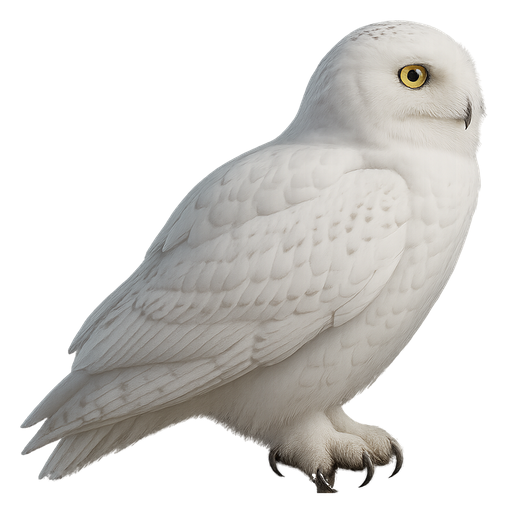
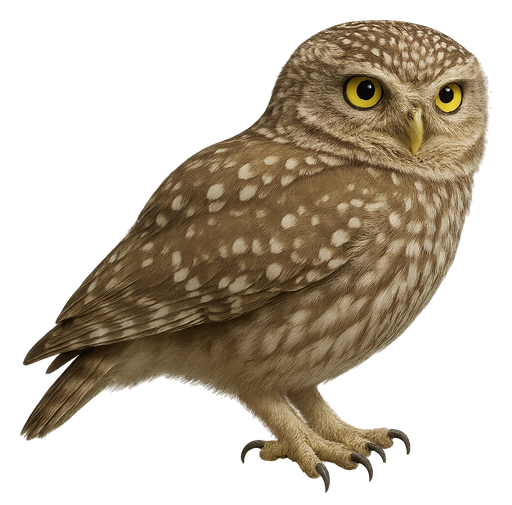
Mascot: the owl is now a Little Owl (Athene noctua)
Replaces the snowy owl with the little owl of Athena: grey-brown, white
speckles, yellow eyes. Same asset contract under public/kyro-owl; the
flight clip was keyed from a green screen. Flying layers are scaled 1.6x
against the perched still and the box is the perched silhouette in both
axes (airborne wings overflow by design), which keeps the perched bird
full-size on every surface while landings stay centroid-exact. End card
refit.

diff --git a/apps/web/src/components/penny/kyroDoveManifest.js b/apps/web/src/components/penny/kyroDoveManifest.js
@@ -1,7 +1,8 @@
 // ─────────────────────────────────────────────────────────────────────────────
 // KYRO the owl — asset contract for the sprite assets in /public/kyro-owl/.
 // (File name kept from the dove era: it is an internal identifier, like
-// KyroDove.jsx — the bird is now a snowy owl, owner decision 2026-09-10.)
+// KyroDove.jsx — the bird is now a LITTLE OWL, Athene noctua, Athena's owl of
+// knowledge; owner decision 2026-09-10, replacing the snowy owl the same day.)
 //
 // FALLBACK below is a verbatim copy of `public/kyro-owl/manifest.json` (the
 // numbers the build script wrote), so the FIRST paint never waits on a fetch:
@@ -20,37 +21,37 @@ export const ASSET_BASE = '/kyro-owl/'
 export const FALLBACK = {
   fly: {
     file: 'fly.webp',
-    frames: 42,
-    cols: 7,
+    frames: 36,
+    cols: 6,
     rows: 6,
-    cellW: 384,
-    cellH: 139,
-    sheetW: 2688,
-    sheetH: 834,
+    cellW: 249,
+    cellH: 256,
+    sheetW: 1494,
+    sheetH: 1536,
     fps: 24,
-    anchor: { x: 0.3342, y: 0.4001 },
+    anchor: { x: 0.5674, y: 0.4613 },
     facing: 'right',
     loop: 'forward',
   },
   perched: {
     file: 'perched.webp',
-    w: 507,
-    h: 512,
-    anchor: { x: 0.6549, y: 0.962 },
+    w: 512,
+    h: 505,
+    anchor: { x: 0.6311, y: 0.9744 },
     facing: 'right',
-    variants: { 256: { file: 'perched@256.webp', w: 254, h: 256 } },
+    variants: { 256: { file: 'perched@256.webp', w: 256, h: 252 } },
   },
   glide: {
     file: 'glide.webp',
-    w: 384,
-    h: 139,
-    anchor: { x: 0.3342, y: 0.4001 },
+    w: 249,
+    h: 256,
+    anchor: { x: 0.5674, y: 0.4613 },
     facing: 'right',
   },
 }
 
 // Alpha-silhouette CENTROIDS measured by the asset build
-// (demo-video/owl-candidates/sora/measurements.json), as fractions of the glide
+// (demo-video/owl-candidates/little/sora/measurements.json), as fractions of the glide
 // cell / perched image. THESE are the common point P every layer is placed by —
 // not the manifest anchors. The manifest's fly/glide anchor is the torso (the
 // always-opaque pixels) and its perched anchor is the feet; neither is what the
@@ -61,18 +62,22 @@ export const FALLBACK = {
 // 2·(centroid − P). Anchoring on the centroids makes both cuts and both
 // facings invariant by construction. The fly sheet shares the glide's crop and
 // anchor, so the torso still holds still through the wingbeat.
-export const GLIDE_CENTROID = { x: 0.4515, y: 0.4945 }
-export const PERCHED_CENTROID = { x: 0.5733, y: 0.5274 }
+export const GLIDE_CENTROID = { x: 0.5057, y: 0.4105 }
+export const PERCHED_CENTROID = { x: 0.5664, y: 0.483 }
 
-// The flying/gliding layers render this many times the perched layer's HEIGHT
-// (a fly cell is 384×139, so the flying owl is FLY_SCALE × 2.76 perched-heights
-// wide). 1.0 is the size at which the owl reads as the SAME bird across the cut:
-// the head/eye and torso mass of the wings-spread frame match the perched still
-// (checked by overlaying glide on perched at 0.9 / 1.2 / 1.5 / 2.07 — at 2.07,
-// the value that equates the horizontal flight torso's THICKNESS to the standing
-// bird's HEIGHT, the flying owl is plainly a much bigger bird). The dove used
-// 1.22 because its perched still was drawn at a larger scale than its cells.
-export const FLY_SCALE = 1.0
+// The flying/gliding layers render this many times the perched layer's HEIGHT.
+// The little owl's fly cell is ~1:1 (249×256): unlike the snowy owl's 2.76:1
+// cell, the wings here sweep from 0.41u ABOVE the body centroid to 0.59u BELOW
+// it, so the torso is only ~0.23 of the cell and "same bird" is a HEAD match,
+// not a cell-height match. Overlaying glide on perched, centroid-aligned, at
+// 1.0/1.4/1.7/2.0/2.4/2.8 (demo-video/owl-candidates/little/sora/
+// fly-scale-overlay.png): the head/eye masses coincide at ~2.0 (the stricter
+// eye-diameter measurement says 1.9); at 1.4 the flying bird is plainly
+// smaller, at 2.4 plainly bigger. 1.6 is the deliberate compromise: the flying
+// head is ~80 % of the perched head (reads as the same bird a little further
+// off) while the airborne layers stay ~1.6u tall — see the box rule below for
+// why that number, not 2.0, is the one that costs nothing in the perched state.
+export const FLY_SCALE = 1.6
 
 // PLACEMENT anchor for the perched layer relative to the manifest's feet anchor:
 // the perched still is placed by its alpha centroid (= P), the feet stay the
@@ -90,17 +95,28 @@ export const PERCHED_PLACEMENT_OFFSET = placementOffset()
  * box height H, so the same numbers work for a `size` prop or a CSS var.
  *
  * All three layers are placed so their anchor lands on ONE common point P, so
- * switching state never moves the body. The BOX is:
- *   • vertically, the union of all three layers (so a parent's `bottom: H + 8`
- *     bubble clears the bird in every state, wings up or down);
- *   • horizontally, the PERCHED still only (symmetric about P.x). The owl's fly cell is 2.76:1 — its
- *     wingspan is ~6 body-heights — so a box that contained the wings would be
- *     three times wider than the bird you see 99% of the time, and every layout
- *     that sizes/places the mascot by its box (corner inset, beside-the-card
- *     placement, the clickable button, badges) would drift far off the bird.
- *     The fly/glide layers therefore OVERFLOW the box sideways while airborne
- *     (`fly.left` is negative); nothing that hosts a flight clips, and inactive
+ * switching state never moves the body. The BOX is the PERCHED still, both
+ * ways (horizontally symmetric about P.x):
+ *   • horizontally that was already the rule for the snowy owl (wingspan ~6
+ *     body-heights): a box that contained the wings would be several times
+ *     wider than the bird you see 99% of the time, and every layout that
+ *     sizes/places the mascot by its box (corner inset, beside-the-card
+ *     placement, the clickable button, badges) would drift far off the bird;
+ *   • vertically it USED to be the union of all three layers. The snowy owl's
+ *     2.76:1 cell made that free (the wings barely left the body's height).
+ *     The little owl's ~1:1 cell does not: its wings sweep 0.41u above and
+ *     0.59u below P, so a union box at FLY_SCALE 1.6 would be 1.6u tall and
+ *     the perched bird — the one every `size` prop is written for — would
+ *     shrink to 62% of its box on every surface (parked, chat header, the
+ *     172px Studio hero). So the airborne layers now overflow vertically too,
+ *     by (0.41·FLY_SCALE − 0.48)u ≈ 0.17u above and (0.59·FLY_SCALE − 0.52)u ≈
+ *     0.43u below the box (≈ 11px / 28px at Penny's 64px box) — only while
+ *     flying/gliding. The bubble sits `bottom: H + 8` above the box, so a
+ *     wing-up tip can brush its underside mid-flight (cosmetic; the bubble is
+ *     for the perched bird). Nothing that hosts a flight clips, and inactive
  *     layers are collapsed (KyroDove) so they never add scrollable overflow.
+ *     Callers that want the old envelope can read fly.top/fly.h from the
+ *     geometry — it is still derived, just no longer folded into the box.
  */
 export function deriveGeometry(manifest = FALLBACK) {
   const fly = manifest.fly || FALLBACK.fly
@@ -124,17 +140,15 @@ export function deriveGeometry(manifest = FALLBACK) {
       anchor: { x: perched.anchor.x + offset.x, y: perched.anchor.y + offset.y },
     },
   ]
-  let above = 0
-  let below = 0
-  for (const l of layers) {
-    above = Math.max(above, l.anchor.y * l.h)
-    below = Math.max(below, (1 - l.anchor.y) * l.h)
-  }
+  // Vertical: the perched still only (see the box rule above); the airborne
+  // layers overflow above/below while flying.
+  const perchedLayer = layers[2]
+  const above = perchedLayer.anchor.y * perchedLayer.h
+  const below = (1 - perchedLayer.anchor.y) * perchedLayer.h
   // Horizontal: the perched still, made SYMMETRIC about P.x so the flipped
   // (facing-left) still stays inside the box too — costs ~0.07u of slack on one
   // side, and means the box, the button hit-area and any badge inset track the
   // bird in both facings.
-  const perchedLayer = layers[2]
   const half = Math.max(perchedLayer.anchor.x, 1 - perchedLayer.anchor.x) * perchedAspect
   const left = half
   const right = half

diff --git a/apps/web/public/kyro-owl/preview.html b/apps/web/public/kyro-owl/preview.html
@@ -4,10 +4,10 @@
   body{margin:0;font:13px/1.4 system-ui,sans-serif;color:#1f3d72;background:#fff}
   .row{display:flex;gap:40px;align-items:flex-end;padding:28px 32px;flex-wrap:wrap}
   .light{background:#f6f7fb} .navy{background:#1f3d72;color:#fff}
-  .fly{width:384px;height:139px;background:url(fly.webp) 0 0/2688px 834px no-repeat;
-       animation:fx 0.29167s steps(7) infinite, fy 1.75000s steps(6) infinite}
-  @keyframes fx{to{background-position-x:-2688px}}
-  @keyframes fy{to{background-position-y:-834px}}
+  .fly{width:249px;height:256px;background:url(fly.webp) 0 0/1494px 1536px no-repeat;
+       animation:fx 0.25000s steps(6) infinite, fy 1.50000s steps(6) infinite}
+  @keyframes fx{to{background-position-x:-1494px}}
+  @keyframes fy{to{background-position-y:-1536px}}
   .mirror{transform:scaleX(-1)}
   .box{position:relative;display:inline-block}
   .anchor{position:absolute;width:9px;height:9px;margin:-5px 0 0 -5px;border-radius:50%;background:#ff5a5f;box-shadow:0 0 0 2px #fff;pointer-events:none}
@@ -15,16 +15,16 @@
   img{display:block}
 </style>
 <div class="row light">
-  <div><span class="box"><div class="fly"></div><i class="anchor" style="left:33.42%;top:40.01%"></i></span><span class="label">fly.webp 42 cells @ 24 fps (facing right)</span></div>
+  <div><span class="box"><div class="fly"></div><i class="anchor" style="left:56.74%;top:46.13%"></i></span><span class="label">fly.webp 36 cells @ 24 fps (facing right)</span></div>
   <div><span class="box"><div class="fly mirror"></div></span><span class="label">scaleX(-1)</span></div>
-  <div><span class="box"><img src="glide.webp" width="384" height="139"><i class="anchor" style="left:33.42%;top:40.01%"></i></span><span class="label">glide.webp</span></div>
-  <div><span class="box"><img src="perched@256.webp" width="254" height="256"><i class="anchor" style="left:65.49%;top:96.20%"></i></span><span class="label">perched@256.webp</span></div>
-  <div><span class="box"><img src="perched.webp" width="253" height="256"></span><span class="label">perched.webp shown at 50%</span></div>
+  <div><span class="box"><img src="glide.webp" width="249" height="256"><i class="anchor" style="left:56.74%;top:46.13%"></i></span><span class="label">glide.webp</span></div>
+  <div><span class="box"><img src="perched@256.webp" width="256" height="252"><i class="anchor" style="left:63.11%;top:97.44%"></i></span><span class="label">perched@256.webp</span></div>
+  <div><span class="box"><img src="perched.webp" width="256" height="252"></span><span class="label">perched.webp shown at 50%</span></div>
 </div>
 <div class="row navy">
   <div><span class="box"><div class="fly"></div></span><span class="label">fly.webp</span></div>
   <div><span class="box"><div class="fly mirror"></div></span><span class="label">scaleX(-1)</span></div>
-  <div><span class="box"><img src="glide.webp" width="384" height="139"></span><span class="label">glide.webp</span></div>
-  <div><span class="box"><img src="perched@256.webp" width="254" height="256"></span><span class="label">perched@256.webp</span></div>
+  <div><span class="box"><img src="glide.webp" width="249" height="256"></span><span class="label">glide.webp</span></div>
+  <div><span class="box"><img src="perched@256.webp" width="256" height="252"></span><span class="label">perched@256.webp</span></div>
 </div>
 <div class="row light" style="padding-top:8px"><span>Red dots = manifest anchors (fly/glide: body centroid; perched: feet).</span></div>

diff --git a/demo-video/assets/endcard.html b/demo-video/assets/endcard.html
@@ -13,11 +13,11 @@
   .mark img.lockup { height:280px; filter: drop-shadow(0 24px 60px rgba(0,0,0,.5)); animation: pop 1.2s .2s cubic-bezier(.2,.8,.2,1) both }
   /* KYRO the owl settles onto the petal tip of the mark. The lockup is 280px tall (370x320 source): the
      SOLID tip of the centre petal (alpha > 200, ignoring the sparkle dots above it) is source row 54,
-     cols 179-189 → (161.0px, 47.2px) from the mark's top-left, i.e. ~1px left of centre. The owl still
-     (507x512) has its feet at (0.6549, 0.962) of the image, so at height 130px (w 128.7px) the claws land
-     on the tip with: margin-left = -1 - 0.6549*128.7 ≈ -85px, top = 48.5 - 0.962*130 ≈ -77px (claws
+     cols 179-189 → (161.0px, 47.2px) from the mark's top-left, i.e. ~1px left of centre. The little-owl
+     still (512x505) has its feet at (0.6311, 0.9744) of the image, so at height 130px (w 131.8px) the claws
+     land on the tip with: margin-left = -1 - 0.6311*131.8 ≈ -84px, top = 48.5 - 0.9744*130 ≈ -78px (claws
      overlap the tip by ~1px). */
-  .mark img.mascot { position:absolute; left:50%; top:-77px; height:130px; margin-left:-85px;
+  .mark img.mascot { position:absolute; left:50%; top:-78px; height:130px; margin-left:-84px;
                      filter: drop-shadow(0 10px 22px rgba(0,0,0,.45)); animation: land 1.1s 1.0s cubic-bezier(.2,.8,.2,1) both }
   @keyframes land { from { opacity:0; transform: translate(-140px,-90px) rotate(-8deg) scale(1.08) } 70% { opacity:1; transform: translate(0,6px) } to { opacity:1; transform: translate(0,0) } }
   @keyframes pop { from { opacity:0; transform: scale(.7) } }

diff --git a/apps/web/public/kyro-owl/README.md b/apps/web/public/kyro-owl/README.md
@@ -1,101 +1,114 @@
 # KYRO the owl — in-app mascot assets
 
-Photoreal **snowy owl** sprites for the app mascot (owner decision 2026-09-10: move away from the dove; this
-directory replaces `/kyro-dove/` with the SAME manifest schema and file names). Everything here has alpha,
-faces **right**, and is our own generated output. Mirror with `transform: scaleX(-1)`.
+Photoreal **little owl** (*Athene noctua* — Athena's owl, the classic emblem of knowledge: small, round-headed,
+grey-brown with white speckling, pale facial disc, yellow eyes, short tail) sprites for the app mascot. Owner
+decision 2026-09-10: "instead of the snowy owl, i'd rather use the little owl that is associated with knowledge."
+Same manifest schema and file names as the snowy owl (and the dove before it). Everything here has alpha, faces
+**right**, and is our own generated output. Mirror with `transform: scaleX(-1)`.
 
 | File | What | Size |
 |---|---|---|
-| `fly.webp` | sprite sheet, one wingbeat, 42 cells of 384x139 in a 7x6 grid (2688x834), lossless | 1,141 KB |
-| `glide.webp` | one wings-spread frame (source frame 61, bottom of the downstroke), same crop/scale as a fly cell, 384x139 | 33 KB |
-| `perched.webp` | perched still, branch removed, alpha-trimmed + 4 % padding, 507x512 | 160 KB |
-| `perched@256.webp` | same at 254x256 | 41 KB |
-| `manifest.json` | frames/grid/fps/anchors for the app (same schema as kyro-dove) | |
+| `fly.webp` | sprite sheet, one wingbeat, 36 cells of 249x256 in a 6x6 grid (1494x1536), lossless | 1,012 KB |
+| `glide.webp` | one wings-spread frame (source frame 209, wings spread and slightly raised), same crop/scale as a fly cell, 249x256 | 25 KB |
+| `perched.webp` | perched still, alpha-trimmed + 4 % padding, 512x505 | 199 KB |
+| `perched@256.webp` | same at 256x252 | 51 KB |
+| `manifest.json` | frames/grid/fps/anchors for the app (same schema as before) | |
 | `preview.html` / `preview.png` | self-check: plays the sheet with CSS `steps()` on the light app ground and on navy | |
+| `owl-sky-proof.mp4` | temp, untracked: the sheet looping over the sky plates (1536x1024, 30 fps, 4 s) | |
 
 ## Playing `fly.webp`
 
-42 cells, 24 fps = 1.75 s per wingbeat. Cell `k` is at column `k % 7`, row `k / 7`. Play 0..41 forward and
-repeat. Unlike the dove this is a NATURAL cycle (no ping-pong): bottom of the downstroke -> upstroke (wings
-level, thin but visible, cells ~18-24) -> downstroke -> bottom. The seam (cell 41 = frame 143 -> cell 0 = frame 61)
-is a 2-source-frame step like every other cell (silhouette diff 0.073 vs mean step 0.080).
+36 cells, 24 fps = 1.5 s per wingbeat. Cell `k` is at column `k % 6`, row `k / 6`. Play 0..35 forward and
+repeat — a NATURAL cycle (no ping-pong): 9 frames before the wing-up peak -> wings up -> downstroke -> wings
+down (bottom of the downstroke ~cell 22) -> upstroke -> back. The seam (cell 35 = source 214 -> cell 0 =
+source 106) is 1.5x an average cell step (silhouette diff 0.146 vs mean step 0.096).
 
 ```css
-.fly { width:384px; height:139px; background:url(fly.webp) 0 0/2688px 834px;
-       animation: fx .29167s steps(7) infinite, fy 1.75s steps(6) infinite; }
-@keyframes fx { to { background-position-x:-2688px } }
-@keyframes fy { to { background-position-y:-834px } }
+.fly { width:249px; height:256px; background:url(fly.webp) 0 0/1494px 1536px;
+       animation: fx .25s steps(6) infinite, fy 1.5s steps(6) infinite; }
+@keyframes fx { to { background-position-x:-1494px } }
+@keyframes fy { to { background-position-y:-1536px } }
 ```
 
 Anchors (fraction of the cell, from the alpha): `fly`/`glide` = centroid of the body (pixels opaque in every
-frame of the cycle = body+head+tail, not wings) = (0.3342, 0.4001); `perched` = feet (x = centroid of the
-black talon pixels, y = lowest claw pixel) = (0.6549, 0.962).
+frame of the cycle = torso+head) = (0.5674, 0.4613); `perched` = feet (x = centroid of the black talon
+pixels, y = lowest claw pixel) = (0.6311, 0.9744).
 
 ## Numbers for `kyroDoveManifest.js` (measured by the build, see `measurements.json` next to the build script)
 
-The owl's side profile is much wider than the dove's (cell aspect 2.76 vs 1.25) and the body sits low-left in
-the cell, so BOTH app constants need re-deriving — do not reuse the dove values:
-
 | | value |
 |---|---|
-| glide alpha centroid, fraction of cell | (0.4515, 0.4945) |
-| perched alpha centroid, fraction of image | (0.5733, 0.5274) |
-| body height in a fly cell (always-opaque pixels) | 0.445 of cell height (62 px) |
-| body height in the perched image | 0.924 of image height |
-| `FLY_SCALE` if the flying body should match the perched body height | **2.07** (dove: 1.22) |
-| `PERCHED_PLACEMENT_OFFSET` at FLY_SCALE 1.22 | (-0.4806, -0.5497) |
-| `PERCHED_PLACEMENT_OFFSET` at FLY_SCALE 2.07 | (-0.760, -0.6303) |
+| glide alpha centroid, fraction of cell | (0.5057, 0.4105) |
+| perched alpha centroid, fraction of image | (0.5664, 0.4830) |
+| body (torso) height in a fly cell (always-opaque pixels) | 0.231 of cell height |
+| body height in the perched image | 0.935 of image height |
+| `FLY_SCALE` chosen | **1.6** (head-match overlay says ~2.0; see below) |
 
-Offset formula (same one the dove comment describes): place the perched still so its alpha centroid lands on
-the glide centroid: `A.x = pc.x - (gc.x - fly.anchor.x) * FLY_SCALE * glideAspect / perchedAspect`,
-`A.y = pc.y - (gc.y - fly.anchor.y) * FLY_SCALE`, offset = A - perched.anchor. Note that at FLY_SCALE 2.07 the
-fly layer is 2.07 x 2.76 = 5.7 perched-heights WIDE (a real owl's wingspan is ~3.5x its body length), which
-makes the mascot box very wide; 1.22 keeps the flying owl's body ~60 % of the perched size (reads as
-"further away"). Engineer's call — both offsets are given.
+The fly cell is ~1:1 (the snowy owl's was 2.76:1): the wings sweep from 0.41 of the cell above the body
+centroid to 0.59 below it, so the torso is only 0.23 of the cell and the torso-thickness formula
+(`FLY_SCALE_suggested` 4.08 in measurements.json) is meaningless here. "Same bird" is a HEAD match:
+`demo-video/owl-candidates/little/sora/fly-scale-overlay.png` overlays glide on perched, centroid-aligned, at
+1.0/1.4/1.7/2.0/2.4/2.8 — the head/eye masses coincide at ~2.0 (eye-diameter ratio 1.9). 1.6 is the deliberate
+compromise (flying head ~80 % of the perched head, reads as the same bird a little further off) because the app
+box is now the PERCHED still both ways and the airborne layers overflow it: at 1.6 the wings overflow ~0.17u
+above / ~0.43u below the box only while flying (≈11/28 px at Penny's 64 px box). With the old "vertical
+union" box rule the perched mascot would have shrunk to 62 % of its box on every surface. Placement offset is
+derived in the JS from the centroids (perched centroid - feet anchor = (-0.0647, -0.4914)).
 
 ## Sources and licence
 
-* Flight: `demo-video/owl-candidates/sora/sprite/frames/` — Sora (sora-2-pro) 12 s clip `keyable-owl.mp4`
-  (job in `jobs.json`), keyed by `key_owl.py` (silhouette key, LO=8 HI=90, 2 px luma ring) into 360 RGBA
-  PNGs. `sprite/audit.json` = edge-contact + loop audit; `sprite-luma/` = the plain `key.sh` luma key kept for
-  comparison (it turns the barring semi-transparent — do not use).
-* Perched: `demo-video/owl-candidates/still/perched-owl-1.png` — gpt-image-1 (high, 1536x1024, transparent).
-  `perched-owl-2.png` is the alternate (branch runs diagonally behind the toes; unused).
+* Flight: `demo-video/owl-candidates/little/sora/sprite/frames/` — Sora (sora-2-pro, 1280x720, 12 s) clip
+  `keyable-owl.mp4` (job in `jobs.json`; $3.60), CHROMA-keyed by `key_green.py` (greenness ramp 14..56,
+  2 px ring un-premultiplied against the measured screen colour + despill) into 360 RGBA PNGs. `audit.json`
+  = 4 px edge-contact + loop audit; `phase.json` = wing phase per frame.
+* Perched: `demo-video/owl-candidates/little/still/perched-owl-2.png` — gpt-image-1 (high, 1536x1024,
+  transparent; two generated for ~$0.50, #2 chosen for its truer grey-brown plumage; #1 is the warmer
+  alternate). No branch or ground was drawn, so nothing had to be removed.
 * Both are our own generated output (OpenAI Sora / gpt-image-1, generated under our account). No third-party
   stock or licensed imagery.
 
-## Why these frames
+## What Sora did and did not honour
 
-Sora honoured the framing (zero frames with alpha within 4 px of an edge across all 360; bird bbox
-x 250-1198, y 173-613) and the black background (corner luma 1-3), but NOT "wingbeats about once per
-second": there is one crisp full flap (top ~12 -> bottom ~54 -> top ~96 -> bottom ~146, ~2.8 s) and then the
-amplitude decays into a bobbing glide (frames ~186-359, wings never rise above the body). Scale is stable
-(wings-down area 137k px @54 vs 135k px @264 — no drift toward camera). `audit.py`'s best loop is 61 -> 145/146
-(score 2.16x the consecutive-frame diff — the same tier as the dove's 2.2x), so the sheet is frames 61..143
-every 2nd frame. The head is turned slightly toward camera throughout (3/4 face, both eyes visible) — that is
-the source, not the key.
+* The green screen: yes, but MUTED — a flat (79,142,68), greenness ~64 rather than #00FF00's 255. Still
+  perfectly keyable (feather greenness p99 = 10, screen p1 = 60; background drift ±2 over 12 s).
+* "Flying from left to right in strict side profile": profile yes, but the owl FACES LEFT in every frame
+  (beak on the left). The build flips every cell horizontally (`FLIP = True`, `sourceFlippedX` in the
+  manifest) so the sheet honours the facing-right contract; anchors are measured on the flipped cells.
+* "Wingbeats about once per second": no — slow motion as also prompted, one beat ~111 frames (3.7 s). Wing-up
+  peaks at source 115/226/306, wing-down at 43/174/274. Played at 24 fps from 36 evenly spaced cells the
+  beat is 1.5 s.
+* "Wings never approach any frame edge": no — the downstroke bottoms out BELOW the frame on three beats
+  (contact frames 29-58, 267-282, 340-359). The clean run is 59..266 and the one full beat inside it,
+  106 -> 217, is also the audit's best loop (score 1.38x the consecutive-frame diff).
+* Position drift: at the same wing phase the beak tip moves (+18, +15) px over the beat. The build removes that
+  linear drift per frame (`DRIFT`), which took the seam from 3.5x to 1.5x an average step.
+* Scale is stable across the beat; both eyes/yellow iris visible in every cell (checked per cell).
 
-## Edge fix / key (why the cells are not a straight crop)
+## Edge / key
 
-A pure luma key (key.sh) is wrong for a barred owl: the black barring (source luma 8-40) becomes
-semi-transparent and un-premultiplies to washed-out brown. `key_owl.py` keys on the SILHOUETTE instead:
-sil = luma > 8, closed 1 px, enclosed holes filled, specks < 60 px dropped; the interior (sil eroded 2 px) is
-fully opaque with the untouched source colour; only the 2 px ring uses the luma ramp + un-premultiply so
-feather tips stay soft and bright. The build's `refine_keyed` (unchanged from the dove) then re-derives
-coverage in a 4 px ring so the render's soft edge does not read as a dark outline on `#f6f7fb`. Mean
-luminance of semi-transparent sheet pixels: 157/255 (dove: 170; the owl's edge pixels include real barring).
-Perched: the gpt-image-1 still had a thin perch stick under the feet running to the canvas bottom; the build
-keeps only talon pixels inside the stick's columns and zeroes everything below the lowest claw. A ~12 px
-(at 512) dark remnant of the stick's shadowed side survives under the front claw and reads as a claw tip.
+`key_green.py`: sil = greenness < 35 (closed 1 px, holes filled, specks < 60 px dropped); interior (sil eroded
+2 px) fully opaque with source colour; the 2 px ring gets alpha from the greenness ramp and its colour
+un-premultiplied against the screen colour (`fg = (src - (1-a)·bg)/a`), then despilled (G := max(R,B) in the
+ring + 3 px inside, the freed green returned as luminance). The build's `refine_keyed` (chroma version — the
+snowy owl's luma-coverage maths assumed bird-over-black) recolours a 4 px band inside the silhouette from the
+nearest opaque feathers so no screen tint survives, and clamps G on near-zero-alpha pixels after the
+premultiplied LANCZOS resize (those came out green-noise; invisible, but now never green). Result: at
+alpha >= 32 the greenness p99 of edge pixels is 4; no cell has alpha within 2 px of a cell edge.
 
 ## Regenerate
 
 ```
-python3 demo-video/owl-candidates/sora/key_owl.py raw sprite/frames 8 90   # from raw/ (ffmpeg png dump of the clip)
-python3 demo-video/owl-candidates/sora/build_kyro_owl.py                   # Pillow + numpy + scipy; ~10 s
-node demo-video/owl-candidates/sora/preview_kyro_owl.mjs                   # preview.png via village-finder's playwright
+cd demo-video/owl-candidates/little/sora
+python3 gen.py                          # ONE sora-2-pro clip -> keyable-owl.mp4 ($3.60)  (python3 ../gen_stills.py for the stills)
+ffmpeg -i keyable-owl.mp4 -start_number 0 raw/r%04d.png
+python3 key_green.py raw sprite/frames 14 56
+python3 audit.py sprite/frames 4 20
+python3 build_kyro_owl.py              # Pillow + numpy + scipy; writes ../../../../apps/web/public/kyro-owl/*
+node preview_kyro_owl.mjs              # preview.png via village-finder's playwright
+python3 sky_proof.py                   # sky-proof/ + owl-sky-proof.mp4 here
+node verify_app.mjs                    # live app check (screens + landing centroid delta) -> verify/
 ```
 
-Knobs at the top of the build script: `FWD`/`SEQ`/`RANGE` (source frames), `GLIDE`, `FPS`, `COLS`, `PAD`,
-`CELL_LONG` (384 here, not 256: a 256-wide cell would be only ~97 px tall for this aspect, under-sampled at
-the app's 56 px x 1.22 box on 2x DPR). Sky proof of the loop: `demo-video/owl-candidates/sora/sky-proof/`.
+Knobs at the top of the build script: `N_CELLS`/`LOOP_FROM`/`LOOP_TO` (one beat, evenly sampled), `GLIDE`,
+`FPS`, `COLS`, `PAD`, `CELL_LONG` (256: the cell is ~1:1, so the head stays ~1.4x oversampled at the app's
+2x-DPR box), `DRIFT`, `FLIP`.
